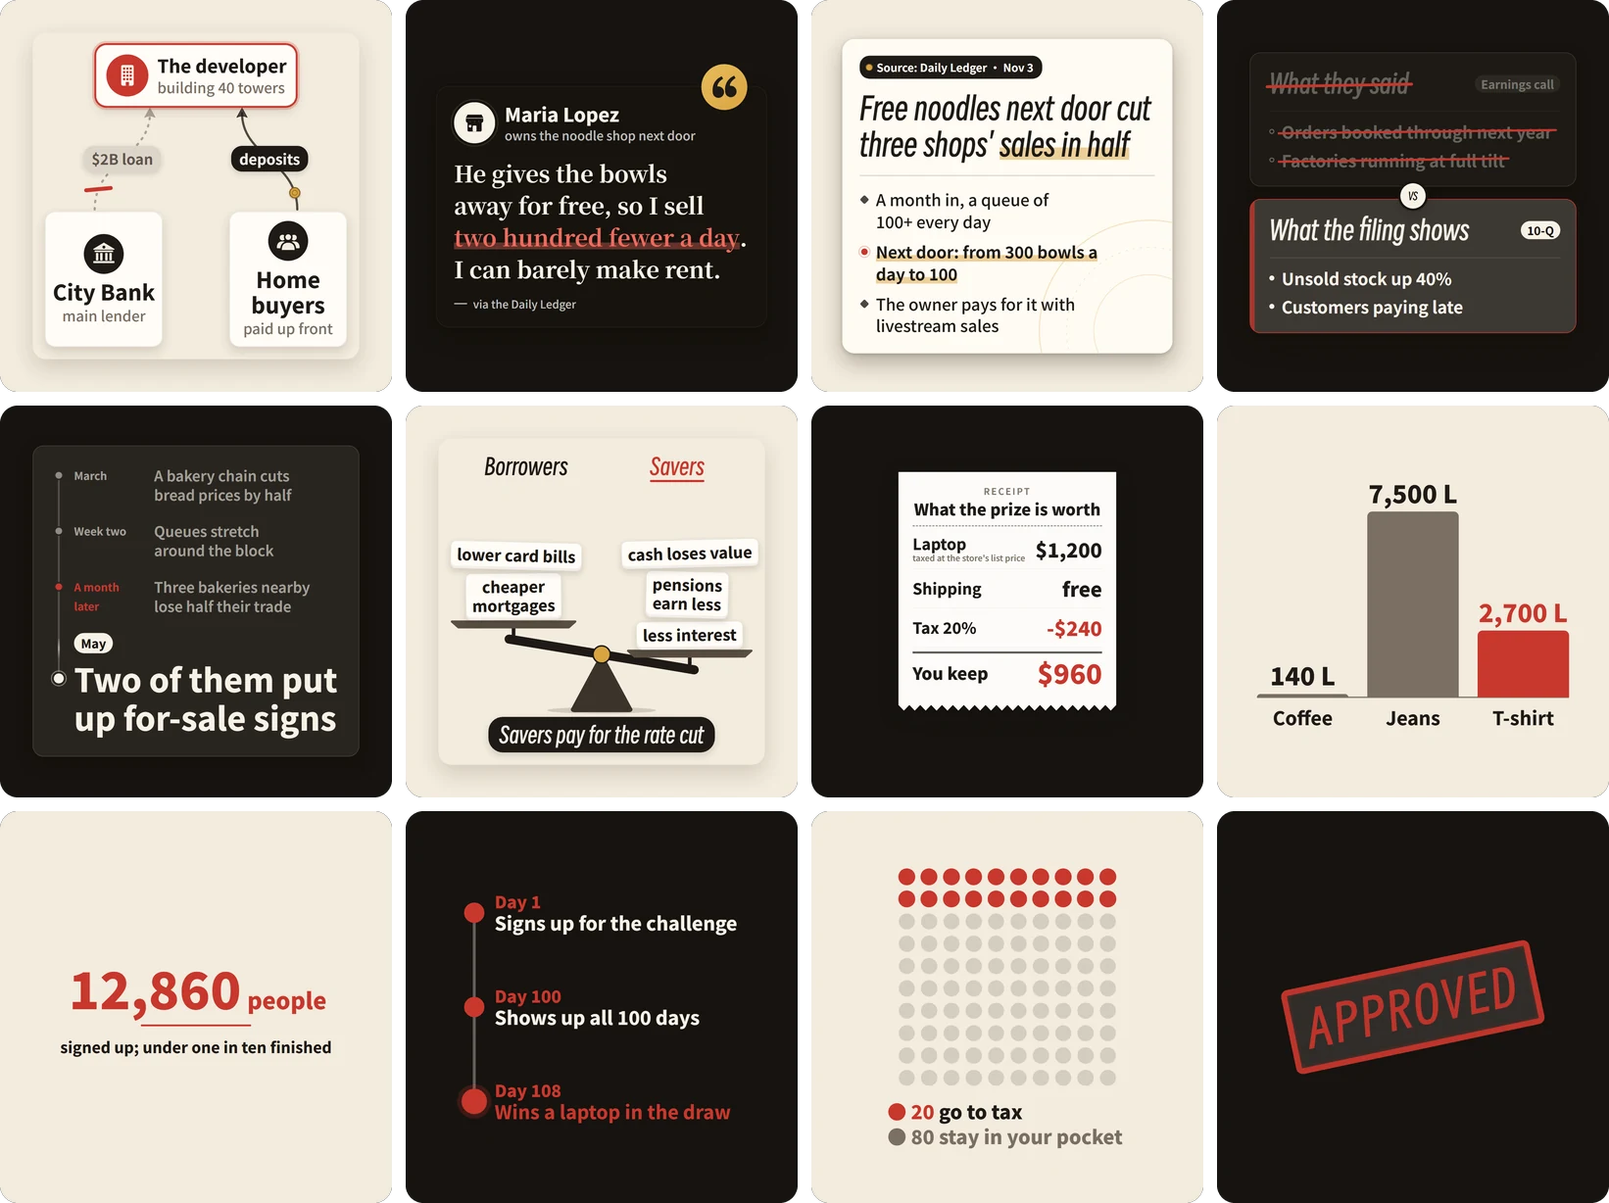
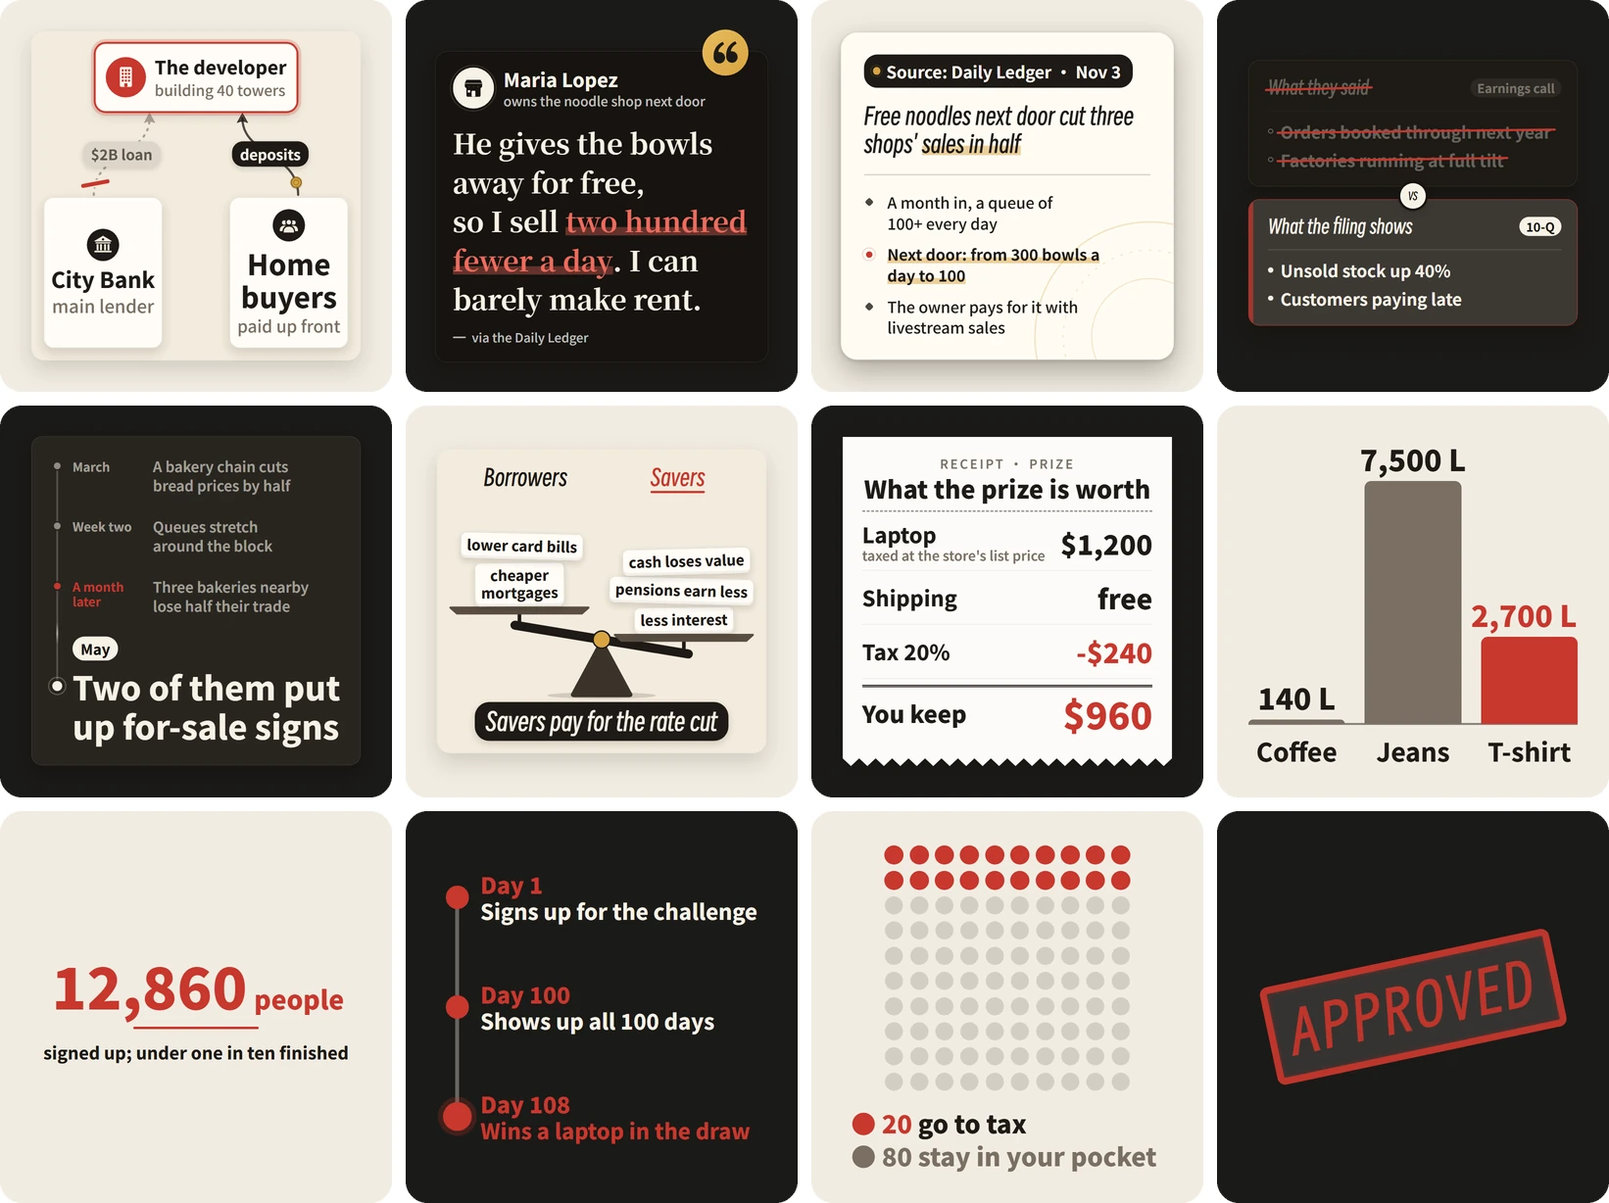
README shortened and set in a formal register; the components picture redrawn with the enlarged presets

diff --git a/tests/test_setup_doc.py b/tests/test_setup_doc.py
@@ -106,9 +106,9 @@ def test_the_checker_catches_a_wrong_command():
 
 def test_readme_prompt_names_the_raw_guide():
     text = README.read_text(encoding="utf-8")
-    section = text.split("## Let your coding agent set it up", 1)[1].split("\n## ", 1)[0]
+    section = text.split("## Installation by a coding agent", 1)[1].split("\n## ", 1)[0]
     assert RAW_URL in section
-    assert text.index("## Let your coding agent set it up") > text.index("## Quick start")
+    assert text.index("## Installation by a coding agent") > text.index("## Installation\n")
     assert "setup-for-agents.md" in (ROOT / "docs" / "agents.md").read_text(encoding="utf-8")
 
 

diff --git a/README.md b/README.md
@@ -1,9 +1,9 @@
 <h1 align="center">reelsmith</h1>
 
 <p align="center">
-  <b>A video editor your coding agent can drive.</b><br>
-  Claude Code, Codex, Cursor or any MCP client edits a real timeline, looks at its own frames<br>
-  and renders through checks that will not let a broken film out.
+  <b>A video editing harness for AI coding agents.</b><br>
+  The agent edits a timeline, inspects its own rendered frames,<br>
+  and delivers a film only after it passes layout, loudness and delivery checks.
 </p>
 
 <p align="center">
@@ -11,19 +11,16 @@
 </p>
 
 <p align="center"><sub>
-  A coding agent made this film with reelsmith: it wrote and narrated the script, drew and animated the pictures,<br>
-  captured the sentence that proves the claim, cut the timeline and rendered it.<br>
-  <a href="docs/media/sea.mp4">Watch it with sound</a> · <a href="examples/sea">the project it wrote</a>
+  Produced by a coding agent with reelsmith: script, narration, pictures, evidence capture, edit and render.<br>
+  <a href="docs/media/sea.mp4">Watch with sound</a> · <a href="examples/sea">Project files</a>
 </sub></p>
 
-A model can write a script and call a renderer, but it works blind: it does not see the title that runs off the
-screen, the caption over a face or the cut that lands mid-word. reelsmith is an editing app built for it. The agent
-builds the film clip by clip from footage, pictures, narration and React components, the way a person works in an
-editor. reelsmith keeps every edit valid and undoable, times each clip to what it follows, measures where the words
-land on the rendered frames, masters the loudness and holds the film to its delivery rules.
-
-There is no pipeline and no template. Every tool can be called at any time, `project.json` can be edited by hand,
-and the agent decides the story, the cut, the sound and the look.
+A language model can write a script and invoke a renderer, but it cannot see the result: a title that runs off the
+frame, a caption over a face, a cut that lands mid-word. reelsmith gives the agent an editor rather than a pipeline.
+The agent assembles the film clip by clip from footage, pictures, narration and React components. reelsmith keeps
+every edit valid and undoable, anchors each clip to what it follows, measures the text on rendered frames, masters
+the loudness and enforces the delivery rules. There are no templates: the agent decides the story, the cut, the
+sound and the look, and `project.json` remains editable by hand.
 
 ## Visual verification
 
@@ -31,25 +28,13 @@ and the agent decides the story, the cut, the sound and the look.
   <img src="docs/media/preview.webp" width="100%" alt="A contact sheet of eight stills from the film with the safe area outlined; in the seventh, a number card is cut off by the right edge">
 </p>
 
-This is what `preview` hands the agent: stills at the moments it asked for, the safe area outlined, and the layout
-measured on those frames. In the seventh still it had pushed a card too far right, and was told so:
+`preview` returns stills at the requested moments, with the safe area outlined and the layout measured on those
+frames. `render` applies the same measurement to the whole film before encoding and refuses a film that fails; the
+previous delivery is kept.
 
 ```text
-layout: 1 problem(s), 1 would block render
 [error] n1 @ 24.2s: text "of salt in every litre o" is cut by the canvas edge (right, 66 px): move it in or make it smaller
-```
-
-`render` measures the whole film the same way before it encodes, and refuses:
-
-```text
 NOT DELIVERED (stopped at layout): words sit where the viewer cannot read them (listed in layout): fix and render again
-The previous out/film.mp4 is kept.
-```
-
-One `undo` later:
-
-```text
-DELIVERED: out/film.mp4 (29.43 s, 1920x1080 30 fps, h264/aac, -13.9 LUFS, 35.4 MB; rendered in 82.0 s). Look at it with review.
 ```
 
 ## Monitoring and conversational editing
@@ -58,86 +43,65 @@ DELIVERED: out/film.mp4 (29.43 s, 1920x1080 30 fps, h264/aac, -13.9 LUFS, 35.4 M
   <img src="docs/media/window.webp" width="100%" alt="The reelsmith window: on the left a session where the agent has changed a title's colour and inspected a frame, on the right the current cut playing above the film's five beats">
 </p>
 
-`reelsmith watch <project>` opens a desktop window on the film your agent is making. It is built for following an
-agent rather than for editing by hand: a session lists each step the agent takes (the edit, the frames it inspected,
-the result of each check, the cost of each paid call) beside the current cut, played with the film's own renderer, and
-the film laid out as beats, one per narration line, each with its shots, cards and any issue found. A request such as
-"make this title red", sent with a beat or an element selected, is carried out by the agent, verified on a rendered
-frame and reported back in the session. The multi-track timeline is one key away, and a delivered film is
-accepted in the same window. The interface is available in eight languages (English, Simplified and
-Traditional Chinese, Japanese, Korean, Spanish, French, German), in light and dark themes. It runs on your machine
-and talks to the engine you already have (Claude through the Agent SDK, Codex, DeepSeek Harness, or any
-OpenAI-compatible API). [docs/watch.md](docs/watch.md) has the details.
+`reelsmith watch <project>` opens a desktop window for following the agent's work. A session records each step
+(edits, inspected frames, check results, the cost of paid calls) beside the current cut and the film's beats, one
+per narration line. A request entered in the session, such as "make this title red", is carried out by the agent,
+verified on a rendered frame and reported back. The interface is available in eight languages with light and dark
+themes, runs locally, and uses the engine already installed (Claude Agent SDK, Codex, DeepSeek Harness or any
+OpenAI-compatible API). See [docs/watch.md](docs/watch.md).
 
 ```sh
-pip install -e ".[app]"          # the desktop window (without it, a browser tab)
+pip install -e ".[app]"          # the desktop window; without it, a browser tab
 reelsmith watch ~/studio/projects/first
 ```
 
-## Quick start
+## Installation
+
+Requirements: Python 3.10+, Node.js 20+ and ffmpeg on `PATH`.
 
 ```sh
 git clone https://github.com/wangkant/reelsmith && cd reelsmith
 python -m venv .venv && source .venv/bin/activate     # Windows: .venv\Scripts\Activate.ps1
 pip install -e ".[capture,web]"
 cd renderer && npm ci && cd ..
+reelsmith doctor                 # verifies the machine and reports what each optional tool needs
 ```
 
-Attach it to your coding agent, in the folder you run the agent in:
+Attach reelsmith to a coding agent, in the folder where the agent runs:
 
 ```sh
 reelsmith setup claude-code      # or: codex, dsh, cursor, generic (--print shows what it would write)
 ```
 
-Then ask: *"Cut my talk in ~/videos/talk.mp4 to its best 90 seconds, remove the pauses, add English captions and a
-title card."* or *"Make a 60-second vertical explainer on why tea leaves curl."*
+reelsmith reads its manual and renderer from the checkout, so the editable install must be kept. Example requests:
+*"Cut ~/videos/talk.mp4 to its best 90 seconds, remove the pauses, add English captions and a title card."* or
+*"Make a 60-second vertical explainer on why tea leaves curl."*
 
-Needs Python 3.10+, Node.js 20+ and ffmpeg on `PATH`; `reelsmith doctor` checks all of it, and what each optional
-tool needs. reelsmith reads its manual and renderer from the checkout, so keep the editable install.
+## Installation by a coding agent
 
-## Let your coding agent set it up
-
-Paste this into Claude Code, Codex, Cursor or any coding agent:
+Paste the following into Claude Code, Codex, Cursor or another coding agent:
 
 ```text
 Read https://raw.githubusercontent.com/wangkant/reelsmith/main/docs/setup-for-agents.md and set up reelsmith for me.
 ```
 
-It asks where to install and before installing any system tool, checks the machine with `reelsmith doctor`,
+The agent asks where to install and before installing any system tool, verifies the machine with `reelsmith doctor`,
 attaches itself with `reelsmith setup <agent>` and renders a test film without a paid call.
 
 ## Capabilities
 
-- **Edit a timeline.** Visual, audio and caption tracks; image, video, text, shape, evidence and component clips;
-  keyframes with easing, Ken Burns moves, enter/exit presets, transitions, flips, filters and blend modes. Edits
-  are atomic batches, validated and undoable.
-- **Edit footage.** Probe a recording, look at stills at any source second, find shot cuts and silences, get a
-  word-level transcript; cut with `"src:clip@12.4"` anchors, markers, ripple delete, insert gap and trim; reframe
-  landscape footage for a vertical canvas with keyframed focus; speed curves, freeze frames and reverse; volume
-  curves and ducking under the voice.
-- **Captions and chapters.** Captions from the narration or from a transcript, following it through every cut,
-  shown phrase by phrase or word by word, burned in and delivered as `.srt` and `.vtt`; chapters from markers.
-- **Time to anything.** Times anchor on narration lines, clips, markers or source seconds (`"line:5+0.3"`,
-  `"clip:c2.end-0.5"`, `"mark:intro"`, `"end-2"`): re-record the voice or recut a clip and the edit follows.
-- **Look at its own work.** `describe` prints the editor's window as text; `preview` renders any moments in seconds
-  with a contact sheet and measured layout problems; a draft render shows a stretch as video; `review` shows the
-  delivered film a frame a second, with the line heard at each frame.
-- **Make assets.** Narration (text-to-speech, cached per line), pictures (Codex image generation), evidence
-  screenshots of web pages with the proving sentence boxed, short clips from a picture (image-to-video), and
-  imports of local or downloaded media, animated GIFs included.
-- **Any canvas, any language.** `landscape` (the default, 1920×1080), `vertical`, `square`, `portrait`, platform
-  profiles (`youtube`, `shorts`, `tiktok`, `reels`, `douyin`, `douyin-long`, `bilibili`, `bilibili-story`,
-  `xiaohongshu`, `channels`) and custom sizes and frame rates (NTSC included); a
-  `locale` sets caption phrasing, the words components add, capture language and web requests; workspaces can add
-  fonts.
-- **Platform playbooks.** Each platform profile comes with a playbook the agent reads with the manual: how a film is
-  made for YouTube and Shorts, Douyin, TikTok, Instagram Reels, Bilibili, Xiaohongshu and WeChat Channels (the
-  frame, the first seconds, pace, words, sound, what to hand over, what gets a film limited), every number graded
-  with its source.
-- **Delivery checks.** Words outside the safe area, cut, tiny, overlapping or low in contrast (measured on rendered
-  frames), loudness, black or frozen stretches, length, size and the workspace's own rules. A failed render keeps
-  the previous film and says what to fix, with clip ids and times. Films of any length render.
-- **Spend control.** Paid calls go through a ledger with a per-project budget and an account balance floor.
+| Area | What the agent can do |
+|---|---|
+| Timeline | Visual, audio and caption tracks; image, video, text, shape, evidence and component clips; keyframes, transitions, filters and blend modes. Edits are atomic batches, validated and undoable. |
+| Footage | Probe recordings, find cuts and silences, obtain word-level transcripts; ripple edits, reframing for a vertical canvas, speed curves, freeze frames, reverse, ducking under the voice. |
+| Captions and chapters | Captions from narration or a transcript, by phrase or by word, burned in and delivered as `.srt` and `.vtt`; chapters from markers. |
+| Timing | Times anchor on narration lines, clips, markers or source seconds (`"line:5+0.3"`, `"clip:c2.end-0.5"`), so a re-recorded line or a recut clip moves the edit with it. |
+| Inspection | `describe` prints the timeline as text; `preview` renders stills with measured layout problems; a draft render shows a stretch as video; `review` shows the delivered film frame by frame. |
+| Assets | Narration (text-to-speech, cached per line), generated pictures, web-page evidence with the proving sentence boxed, image-to-video clips, imports of local or downloaded media. |
+| Canvas and language | `landscape`, `vertical`, `square`, `portrait`, platform profiles and custom sizes and frame rates; a `locale` sets caption phrasing, component wording and capture language. |
+| Platform playbooks | Each platform profile (YouTube and Shorts, Douyin, TikTok, Instagram Reels, Bilibili, Xiaohongshu, WeChat Channels) carries a sourced playbook that the agent reads with the manual. |
+| Delivery checks | Text outside the safe area, cut, too small, overlapping or low in contrast; loudness; black or frozen stretches; length, size and workspace rules. A refused render names the clips and times to fix. |
+| Spend control | Paid calls pass through a ledger with a per-project budget and an account balance floor. |
 
 ## Built-in scene components
 
@@ -145,33 +109,28 @@ attaches itself with `reelsmith setup <agent>` and renders a test film without a
   <img src="docs/media/presets.webp" width="100%" alt="Twelve built-in components: Parties, QuoteCard, NewsBrief, Versus, StoryBeats, Seesaw, Receipt, BarCompare, CountUp, TimelineRule, DotGrid and Stamp">
 </p>
 
-Fifteen React components are built in; twelve are shown above. Six are whole scenes for telling what happened (who
-pays whom, what someone said, what a report found, two versions compared, events in order, winners and losers); the
-rest are single moves: a receipt that prints, bars that grow, a number that counts up, a dated rule, a dot grid, a
-stamp, an arrow, a highlighter, an evidence card. Each lands its parts at the times the agent gives and sizes
-itself to its box, on any canvas.
+Fifteen React components are built in; twelve are shown above. Each lands its parts at the times the agent gives
+and sizes itself to its box on any canvas. The agent can also write its own: a component is a `.tsx` file and a
+JSON schema in the workspace library, built on a documented kit ([docs/kit.md](docs/kit.md)), type-checked and
+import-guarded.
 
-The agent can also write its own. A component is a `.tsx` file and a JSON schema in the workspace's library, built
-on a small documented kit ([docs/kit.md](docs/kit.md)), type-checked and import-guarded, and every project in the
-workspace can use it afterwards.
+## Supported agents
 
-## Coding agents
-
-| agent | how |
+| Agent | Setup |
 |---|---|
 | Claude Code | `reelsmith setup claude-code`, or the plugin: `/plugin marketplace add wangkant/reelsmith`, then `/plugin install reelsmith@reelsmith` |
 | Codex | `reelsmith setup codex` |
-| DeepSeek Harness | the plugin in [integrations/dsh](integrations/dsh) (a Video editor mode with a film, preview and timeline panel), or `reelsmith setup dsh` |
+| DeepSeek Harness | the plugin in [integrations/dsh](integrations/dsh), or `reelsmith setup dsh` |
 | Cursor | `reelsmith setup cursor` |
-| any MCP client | `reelsmith setup generic`, or run the server yourself: `reelsmith mcp` (stdio) or `reelsmith mcp --http` |
-| no client | `reelsmith run <project> --brief "..."`: an agent makes the film headless, on reelsmith's own loop over any OpenAI-compatible API, or on Codex, DeepSeek Harness or the Claude Agent SDK (`--engine`) |
+| Any MCP client | `reelsmith setup generic`, or `reelsmith mcp` (stdio) and `reelsmith mcp --http` |
+| No client | `reelsmith run <project> --brief "..."`: a headless run over any OpenAI-compatible API, Codex, DeepSeek Harness or the Claude Agent SDK (`--engine`) |
 
-Every agent gets the same tools and the reelsmith skill ([skills/reelsmith/SKILL.md](skills/reelsmith/SKILL.md)).
-[docs/agents.md](docs/agents.md) covers each one, the HTTP transport and headless runs.
+Every agent receives the same tools and the reelsmith skill ([skills/reelsmith/SKILL.md](skills/reelsmith/SKILL.md)).
+See [docs/agents.md](docs/agents.md).
 
 ## Workspaces and projects
 
-A workspace is a folder for one creator or channel; its projects share settings, rules, keys, a component library
+A workspace is a folder for one creator or channel. Its projects share settings, rules, keys, a component library
 and the agent's notes:
 
 ```
@@ -180,48 +139,36 @@ studio/
   rules.json        hard rules (block delivery) and advice (information only)
   .env              provider keys; never shown to the agent
   library/          NOTES.md, the agent's components/, fonts/
-  projects/<film>/  project.json, assets/, voice/, build/ (previews), out/ (film, subtitles, chapters)
+  projects/<film>/  project.json, assets/, voice/, build/ (previews), out/ (film, subtitles, chapters, covers)
 ```
 
-[examples/workspace](examples/workspace) is a starter; [examples](examples) also has one channel's setup, to show
-what a workspace can pin down, and the project of the film at the top of this page. Every agent tool is also a
-command, for scripts and people (`reelsmith --help`):
-
-```sh
-P=~/studio/projects/first
-reelsmith new $P --canvas 1920x1080@30 --locale en
-reelsmith import $P talk ~/videos/talk.mp4      # bring in a recording (hard-linked when it can be)
-reelsmith silences $P talk                     # silent ranges, in source seconds
-reelsmith edit $P @ops.json                    # apply a batch of edit ops
-reelsmith preview $P 0 mark:intro end-1        # stills + contact sheet + layout problems
-reelsmith render $P                            # out/film.mp4, mastered and checked, with its subtitles
-```
+[examples/workspace](examples/workspace) is a starter, and [examples](examples) holds the project of the film
+shown above. Every agent tool is also a command (`reelsmith --help`).
 
 ## Optional services
 
-The editor, the previews, the checks and the render run on your machine and cost nothing. These tools need more:
+Editing, previews, checks and rendering run locally at no cost. The following tools require more:
 
-| for | you need |
+| Tool | Requirement |
 |---|---|
-| `capture` (web page evidence) | the `capture` extra and Edge, Chrome or `python -m playwright install chromium` |
+| `capture` (web-page evidence) | the `capture` extra and Edge, Chrome or `python -m playwright install chromium` |
 | `draw` (pictures) | the [Codex CLI](https://github.com/openai/codex), signed in |
-| `speak` (narration) | an [OpenRouter](https://openrouter.ai) key (the default voice speaks English and Mandarin), or any OpenAI-compatible speech endpoint (`providers.tts.provider: "openai"`) |
+| `speak` (narration) | an [OpenRouter](https://openrouter.ai) key, or any OpenAI-compatible speech endpoint |
 | `animate` (image-to-video) | an OpenRouter key |
-| `transcribe` | any OpenAI-compatible transcription endpoint (OpenAI, Groq, a local whisper server), or the `transcribe` extra (faster-whisper, on your machine) |
-| `reelsmith run` | a model API key (OpenRouter by default; DeepSeek, OpenAI or a local server), or Codex or DeepSeek Harness installed; the `runner` extra for the Claude Agent SDK engine |
+| `transcribe` | any OpenAI-compatible transcription endpoint, or the `transcribe` extra (faster-whisper, local) |
+| `reelsmith run` | a model API key, or Codex or DeepSeek Harness installed; the `runner` extra for the Claude Agent SDK |
 
-Paid calls estimate first and are refused over `budget.per_project_usd` (default $1) or under the account floor
-`budget.min_balance_usd` (default $5); narration is cached per line, so only changed lines are paid for again. The
-film at the top of this page cost $0.53: five animated clips and five lines of narration.
+Paid calls are estimated first and refused above `budget.per_project_usd` (default $1) or below the account floor
+`budget.min_balance_usd` (default $5). The film shown above cost $0.53.
 
 ## Documentation
 
-- [docs/manual.md](docs/manual.md): the agent's manual (what the `manual` tool returns).
-- [docs/platforms/](docs/platforms/): the platform playbooks; `reelsmith manual <project>` prints the manual followed
-  by the playbook of the project's profile.
-- [docs/editor-spec.md](docs/editor-spec.md): the full reference: layout, settings and defaults, the project format,
-  edit ops, providers, checks, profiles, the renderer's input and the runner.
+- [docs/manual.md](docs/manual.md): the agent's manual, as returned by the `manual` tool.
+- [docs/platforms/](docs/platforms/): the platform playbooks.
+- [docs/editor-spec.md](docs/editor-spec.md): the full reference (project format, edit operations, providers,
+  checks, profiles, the runner).
 - [docs/agents.md](docs/agents.md): attaching coding agents and running them headless.
+- [docs/watch.md](docs/watch.md): the monitoring window.
 - [docs/kit.md](docs/kit.md): `@reelsmith/kit`, for writing components.
 
 ## Development
@@ -240,6 +187,6 @@ and shared for noncommercial purposes. Commercial use requires a separate licens
 to enquire. Releases published before 10 November 2026 were made under the MIT license.
 
 The renderer depends on [Remotion](https://www.remotion.dev), which has its own license: free for individuals and
-small teams; larger companies need a Remotion company license (https://www.remotion.dev/license). The bundled
-Smiley Sans font is under the SIL Open Font License
+small teams, with a company license required for larger organisations (https://www.remotion.dev/license). The
+bundled Smiley Sans font is under the SIL Open Font License
 ([renderer/src/fonts/SmileySans-OFL.txt](renderer/src/fonts/SmileySans-OFL.txt)).
